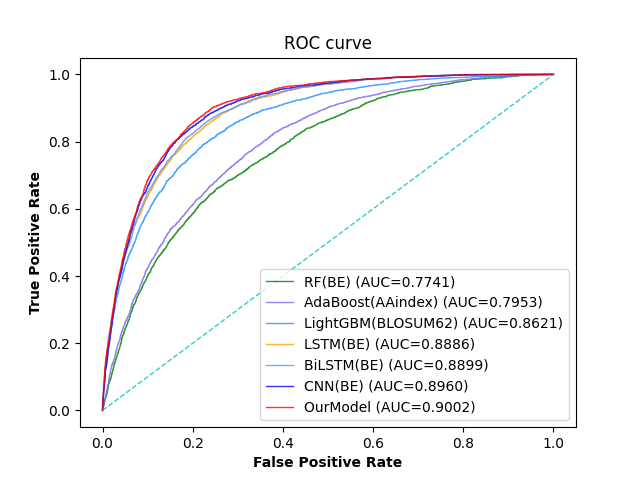
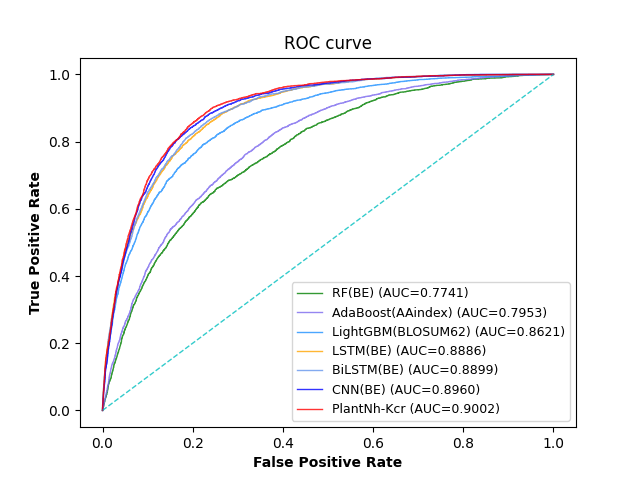
add PlantNh-Kcr

Changed region(s): [[0.4062, 0.5625, 0.9062, 0.9062]]

diff --git a/Codes/draw_Comapre_models_fig_roc_auc.py b/Codes/draw_Comapre_models_fig_roc_auc.py
@@ -69,7 +69,7 @@ plt.plot(fpr3,tpr3,label="LightGBM(BLOSUM62) (AUC={:.4f})".format(LightGBM_BLOSU
 plt.plot(fpr4,tpr4,label="LSTM(BE) (AUC={:.4f})".format(LSTM_BE_roc_auc),lw=1,alpha=0.8,linestyle='-',color='orange')
 plt.plot(fpr5,tpr5,label="BiLSTM(BE) (AUC={:.4f})".format(BiLSTM_BE_roc_auc),lw=1,alpha=0.8,linestyle='-',color='cornflowerblue')
 plt.plot(fpr6,tpr6,label="CNN(BE) (AUC={:.4f})".format(CNN_AAindex_roc_auc),lw=1,alpha=0.8,linestyle='-',color='b')
-plt.plot(fpr7,tpr7,label="OurModel (AUC={:.4f})".format(PlantNh_Kcr_roc_auc),lw=1,alpha=0.8,linestyle='-',color='r')
+plt.plot(fpr7,tpr7,label="PlantNh-Kcr (AUC={:.4f})".format(PlantNh_Kcr_roc_auc),lw=1,alpha=0.8,linestyle='-',color='r')
 
 plt.plot([0,1],[0,1],lw=1,alpha=0.8,linestyle='--',color='c')
 
@@ -77,7 +77,7 @@ plt.xlim([-0.05, 1.05])#横竖增加一点长度 以便更好观察图像
 plt.ylim([-0.05, 1.05])
 
 plt.title('ROC curve')
-plt.legend(loc=4)
+plt.legend(loc=4,fontsize=9)
 plt.xlabel('False Positive Rate',fontweight='bold')
 plt.ylabel('True Positive Rate',fontweight='bold')
 

diff --git a/Codes/draw_Speices_matrixs_fig.py b/Codes/draw_Speices_matrixs_fig.py
@@ -11,7 +11,7 @@ import matplotlib.pyplot as plt
 categories=['Wheat','Tabacum','Rice','Peanut','Papaya','Total']
 
 #labels
-x_labels = ['SN','SP','ACC', 'MCC', 'AUC']
+x_labels = ['Sn','Sp','ACC', 'MCC', 'AUC']
 
 #colors
 colors=['pink','orange','cyan','lime','deepskyblue','b']
@@ -42,29 +42,6 @@ x_tick_labels=x_labels
 plt.figure(figsize=(10, 6))
 for i in range(len(categories)):
     plt.bar(np.arange(len(x_labels)) + i*0.15, values[i], width=0.15,label=categories[i],color=colors[i])
-
-# 显示值：
-# for j in range(len(x_labels)):
-#     # print(values[0][i])
-#     for i in range(len(values)):
-#         # print(i)
-#         x=j
-#
-#         if i == 0:
-#             x=x
-#         elif i == 1:
-#             x+= 0.15
-#         elif i == 2:
-#             x+= 0.3
-#         elif i==3:
-#             x+=0.45
-#         elif i == 4:
-#             x+=0.6
-#         else:
-#             x+=0.75
-#
-#         plt.text(x,values[i][j],str(values[i][j]),ha='center',va='bottom')
-
 
 ax=plt.gca()
 plt.gca().spines['top'].set_visible(False)

diff --git a/Codes/PlantNh-Kcr_train.py b/Codes/PlantNh-Kcr_train.py
@@ -291,7 +291,6 @@ def train(model, train_loader, valid_loader,device):
             _,y_predict = model(x_data)
             # print("y_predict:",y_predict)
 
-            # 二分问题使用的损失函数 binary_cross_entropy函数；
             loss = F.cross_entropy(y_predict, y_data)
 
             # loss=loss_fn(y_predict,y_data)
